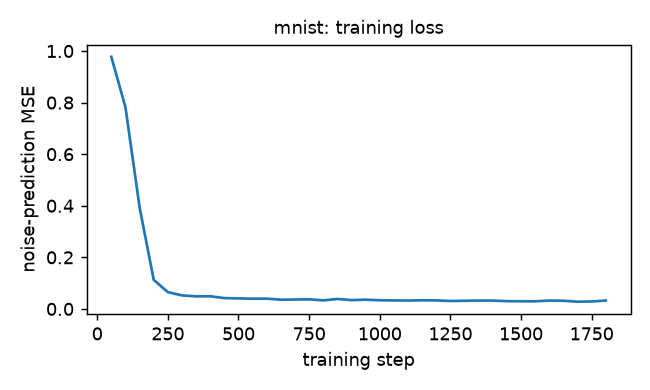
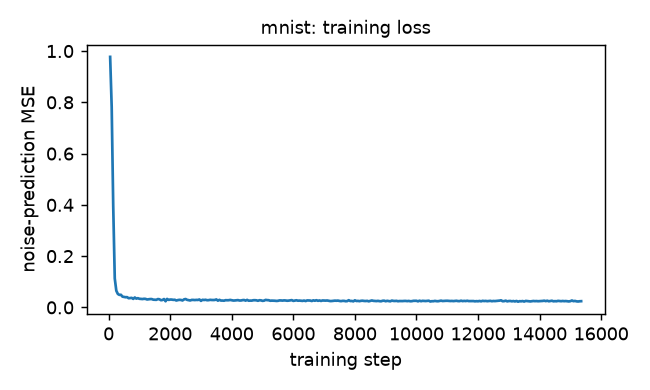
feat: update MNIST results after 15,351 training steps
At guidance w=2, 50-step DDIM and 1000-step DDPM both reach 100% class
accuracy, with FID 32.4 vs 44.0 (real floor 22.4) and a measured 16-19x
wall-clock speedup. The plain conditional model improved from 75% to 90%
accuracy, moving the FID-optimal guidance weight from 2 to 1.

diff --git a/results/mnist_metrics.md b/results/mnist_metrics.md
@@ -2,13 +2,13 @@ Classifier test accuracy: 98.84%. N = 100 samples per config.
 
 | run | steps | guidance | class acc | FID (clf feats) | KID x1000 |
 |---|---|---|---|---|---|
-| ddim50_w0 | 50 | 0.0 | 11.0% | 226.58 | 767.88 |
-| ddim50_w1 | 50 | 1.0 | 75.0% | 96.16 | 304.14 |
-| ddpm1000_w2 | 1000 | 2.0 | 98.0% | 29.97 | -5.00 |
-| ddim100_w2 | 100 | 2.0 | 98.0% | 26.75 | -21.21 |
-| ddim50_w2 | 50 | 2.0 | 98.0% | 26.06 | -22.95 |
-| ddim20_w2 | 20 | 2.0 | 97.0% | 25.05 | -24.03 |
-| ddim10_w2 | 10 | 2.0 | 96.0% | 24.95 | -19.34 |
-| ddim50_w3 | 50 | 3.0 | 100.0% | 41.02 | 28.70 |
-| ddim50_w5 | 50 | 5.0 | 100.0% | 87.87 | 305.67 |
+| ddim50_w0 | 50 | 0.0 | 14.0% | 107.57 | 365.64 |
+| ddim50_w1 | 50 | 1.0 | 90.0% | 26.70 | -2.12 |
+| ddpm1000_w2 | 1000 | 2.0 | 100.0% | 44.02 | 64.44 |
+| ddim100_w2 | 100 | 2.0 | 100.0% | 32.45 | 1.98 |
+| ddim50_w2 | 50 | 2.0 | 100.0% | 32.37 | 2.01 |
+| ddim20_w2 | 20 | 2.0 | 100.0% | 30.91 | -4.96 |
+| ddim10_w2 | 10 | 2.0 | 100.0% | 28.73 | -18.21 |
+| ddim50_w3 | 50 | 3.0 | 100.0% | 56.36 | 133.04 |
+| ddim50_w5 | 50 | 5.0 | 100.0% | 88.76 | 336.31 |
 | real_train_images |  |  | 100.0% | 22.44 | -32.20 |
